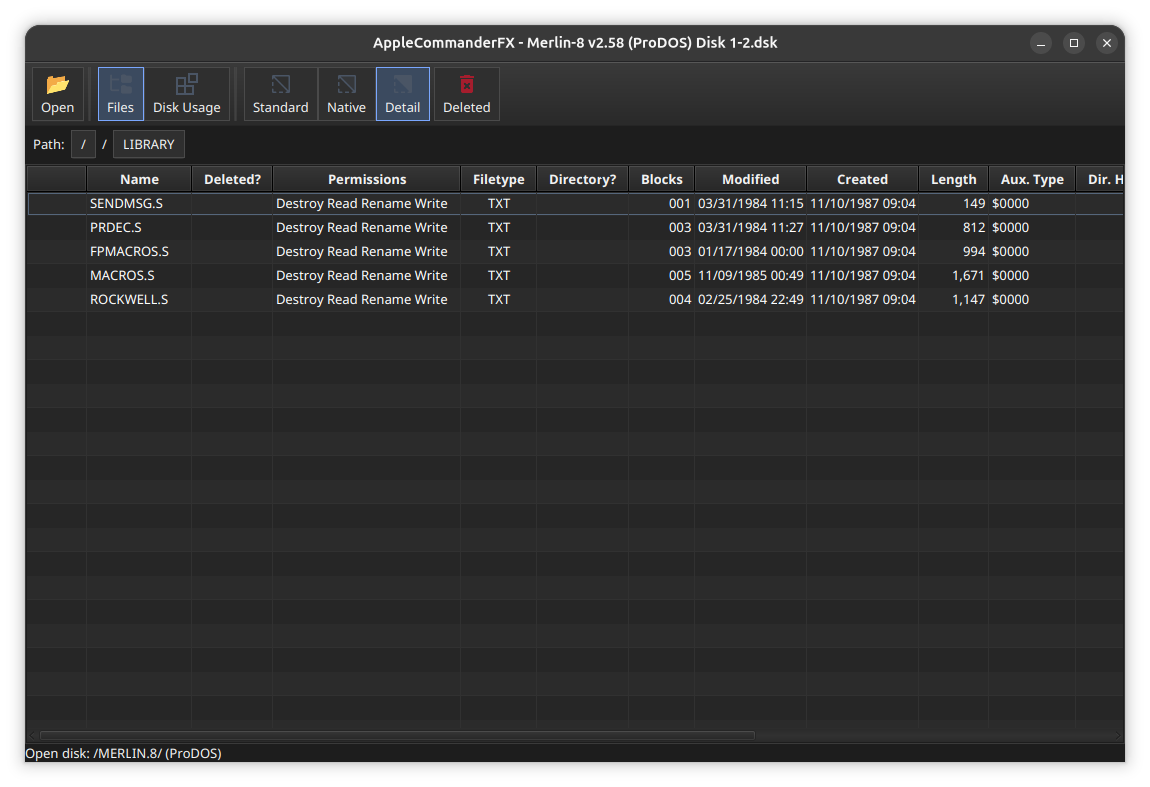
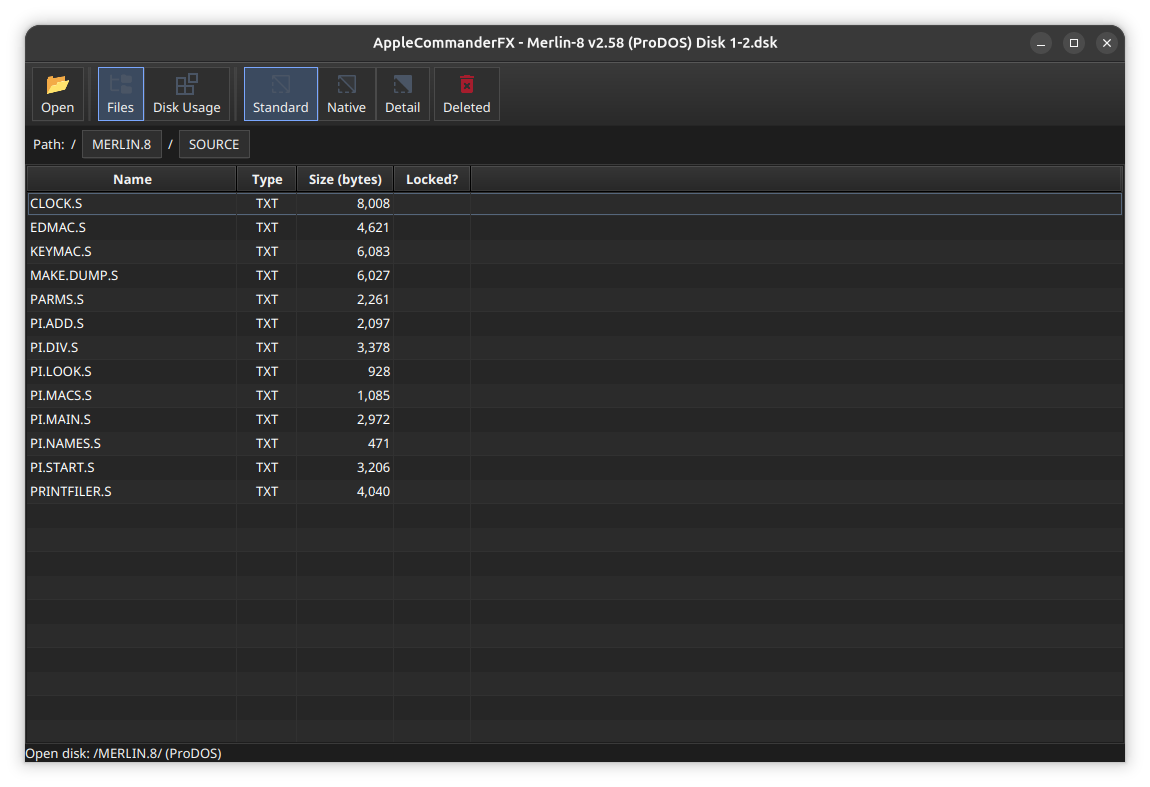
Updating directory view.

Changed region(s): [[0.0304, 0.1525, 0.9739, 0.6404], [0.3043, 0.061, 0.3957, 0.1525], [0.213, 0.061, 0.2739, 0.1525]]

diff --git a/src/main/java/org/applecommander/fx/AppController.java b/src/main/java/org/applecommander/fx/AppController.java
@@ -7,6 +7,7 @@ import com.webcodepro.applecommander.storage.Disks;
 import com.webcodepro.applecommander.storage.FileEntry;
 import com.webcodepro.applecommander.storage.FormattedDisk;
 import com.webcodepro.applecommander.storage.os.prodos.ProdosFormatDisk;
+import com.webcodepro.applecommander.storage.os.prodos.ProdosVolumeDirectoryHeader;
 import javafx.application.Platform;
 import javafx.beans.property.SimpleStringProperty;
 import javafx.collections.FXCollections;
@@ -647,9 +648,14 @@ public class AppController {
             return;
         }
 
+        String volumeName = currentDisk instanceof ProdosFormatDisk prodosDisk
+                ? prodosDisk.getDiskName().replace("/", "")
+                : "/";
+
         for (int i = 0; i < directoryPath.size(); i++) {
             DirectoryEntry dir = directoryPath.get(i);
-            Button crumb = new Button(dir == currentDisk ? "/" : dir.getDirname());
+            String crumbText = (dir == currentDisk) ? volumeName : dir.getDirname();
+            Button crumb = new Button(crumbText);
             final int index = i;
             crumb.setOnAction(event -> {
                 List<DirectoryEntry> newPath = new java.util.ArrayList<>(directoryPath.subList(0, index + 1));
@@ -658,10 +664,8 @@ public class AppController {
                 currentDirectory = directoryPath.get(directoryPath.size() - 1);
                 refreshDiskView();
             });
-            if (i > 0) {
-                Label separator = new Label("/");
-                breadcrumbBar.getChildren().add(separator);
-            }
+            Label separator = new Label("/");
+            breadcrumbBar.getChildren().add(separator);
             breadcrumbBar.getChildren().add(crumb);
         }
     }

diff --git a/README.md b/README.md
@@ -8,8 +8,8 @@ For now, to try it, use:
 $ ./gradlew run
 ```
 
-![img.png](screenshots/dos33-files.png)
+![DOS 3.3 files view](screenshots/dos33-files.png)
 
-![img_1.png](screenshots/dos33-disk-usage.png)
+![DOS 3.3 disk usage view](screenshots/dos33-disk-usage.png)
 
-![img.png](screenshots/prodos-subdirectory.png)
+![ProDOS directory view](screenshots/prodos-subdirectory.png)
